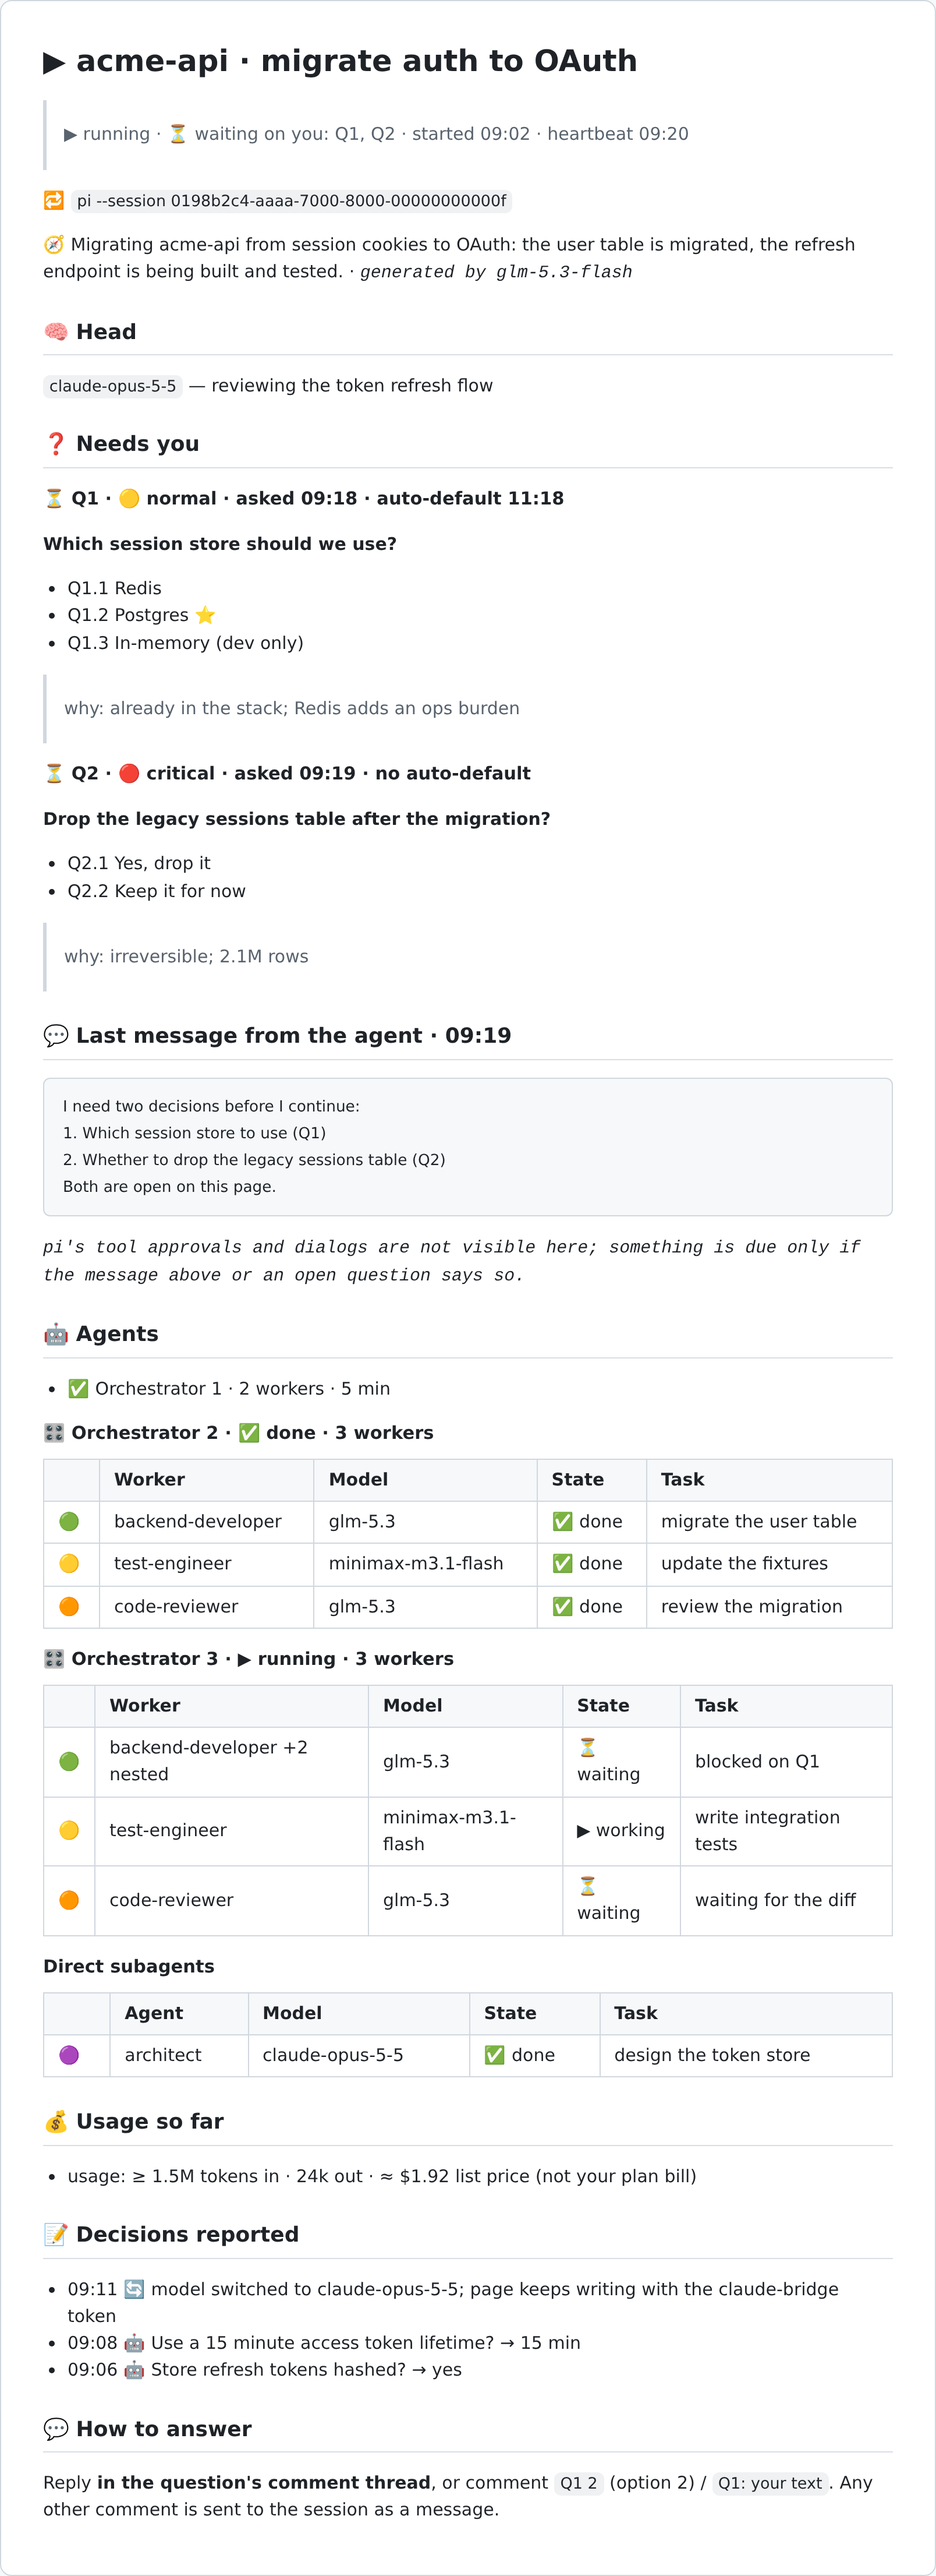
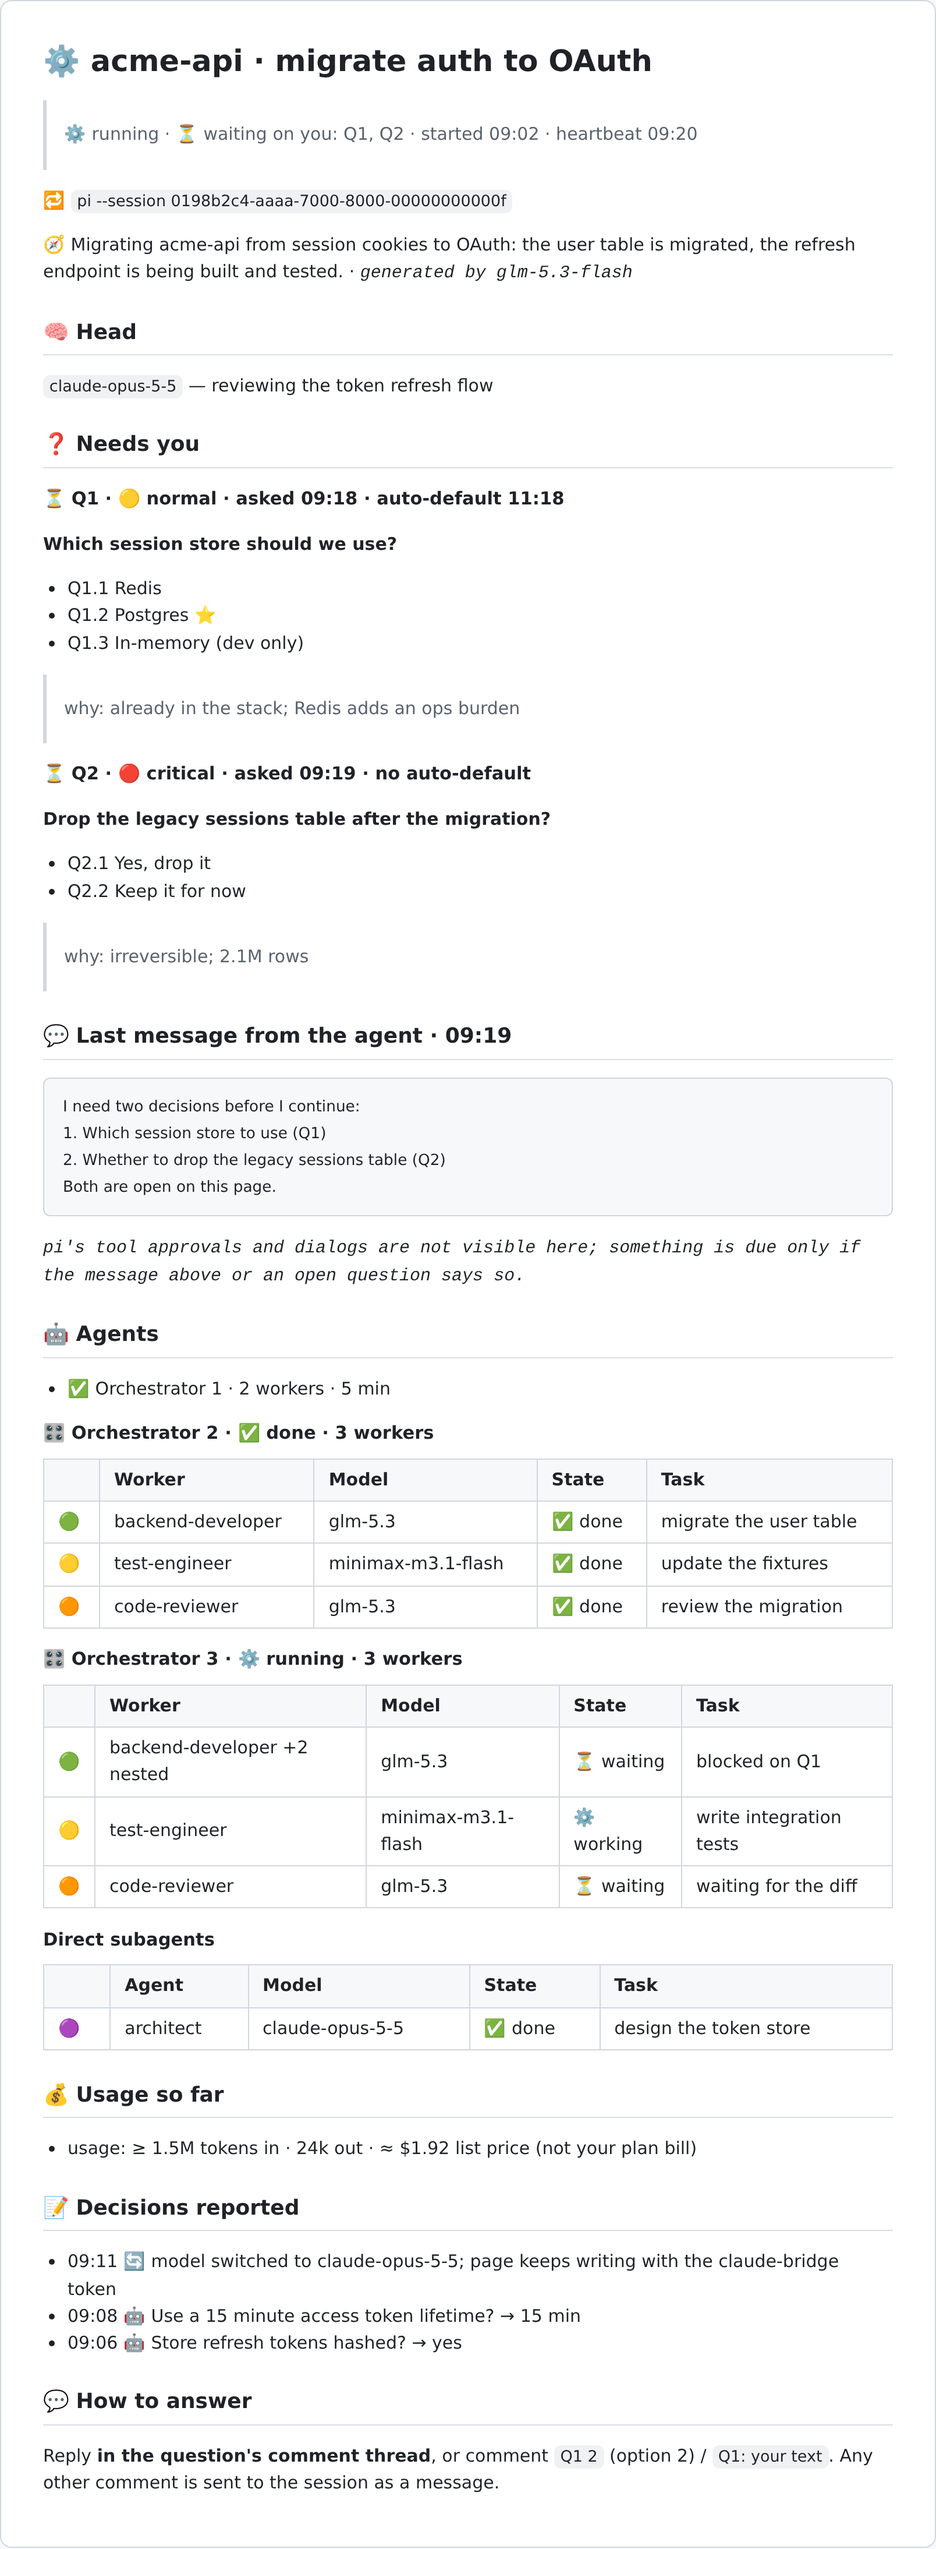
feat: mark a running session with a gear instead of a right-facing triangle

diff --git a/extensions/knot-headless/render.ts b/extensions/knot-headless/render.ts
@@ -26,7 +26,7 @@ export function defang(text: string): string {
 }
 
 const PALETTE = ["🟣", "🔵", "🟢", "🟡", "🟠", "🟤"]; // colored circles that render as emoji everywhere (⚫⚪ fall back to text glyphs)
-const GLYPH: Record<string, string> = { working: "▶", done: "✅", failed: "❌", waiting: "⏳", idle: "💤", paused: "⏸" };
+const GLYPH: Record<string, string> = { working: "⚙", done: "✅", failed: "❌", waiting: "⏳", idle: "💤", paused: "⏸" };
 const BY: Record<string, string> = { model: "🤖", user: "👤", timeout: "⏱", system: "🔄" };
 const MAX_AGENTS = 20;
 const MAX_DECISIONS_SHOWN = 8;
@@ -52,8 +52,8 @@ export function render(s: State, o: { now: number; tz?: string; secrets?: string
 	const hm = (ts: number) =>
 		new Intl.DateTimeFormat("en-GB", { hour: "2-digit", minute: "2-digit", hour12: false, timeZone: o.tz }).format(ts);
 	const waiting = s.questions.length ? `⏳ waiting on you: ${s.questions.map((q) => q.id).join(", ")}` : "";
-	const icon = s.phase === "ended" ? "✅" : s.phase === "running" ? "▶" : waiting ? "⏳" : "💤";
-	const label = s.phase === "running" ? `▶ running${waiting ? ` · ${waiting}` : ""}` : s.phase === "idle" ? waiting || "💤 idle — no open question; comment to give a new task" : "✅ ended";
+	const icon = s.phase === "ended" ? "✅" : s.phase === "running" ? "⚙" : waiting ? "⏳" : "💤";
+	const label = s.phase === "running" ? `⚙ running${waiting ? ` · ${waiting}` : ""}` : s.phase === "idle" ? waiting || "💤 idle — no open question; comment to give a new task" : "✅ ended";
 	const L: string[] = [];
 
 	L.push(`# ${icon} ${e(s.title, 100)}`, "");
@@ -137,7 +137,7 @@ function agentGroups(s: State, e: (t: string, max?: number) => string): string[]
 	}
 	if (L.length) L.push("");
 	for (const o of expOrchs) {
-		const label = o.state === "running" ? "▶ running" : o.state === "done" ? "✅ done" : "❌ failed";
+		const label = o.state === "running" ? "⚙ running" : o.state === "done" ? "✅ done" : "❌ failed";
 		L.push(...table(`### 🎛 Orchestrator ${o.n} · ${label} · ${workers(o)}`, "Worker", s.agents.filter((a) => a.orch === o.id)));
 		if (o.truncated) L.push("_+ more workers not shown_", "");
 	}

diff --git a/extensions/knot-headless/render.test.ts b/extensions/knot-headless/render.test.ts
@@ -139,7 +139,7 @@ test("one running orchestrator + one direct row", () => {
 		orchestrators: [orch("o1", 1, { state: "running", workers: 2, endedAt: undefined })],
 	};
 	const out = render(s, O);
-	assert.ok(out.includes("### 🎛 Orchestrator 1 · ▶ running · 2 workers"));
+	assert.ok(out.includes("### 🎛 Orchestrator 1 · ⚙ running · 2 workers"));
 	assert.ok(out.includes("| | Worker | Model | State | Task |"));
 	assert.ok(out.includes("### Direct subagents"));
 	assert.ok(out.includes("| | Agent | Model | State | Task |"));
@@ -154,7 +154,7 @@ test("collapse rule: running + highest-n done expanded, older collapsed", () => 
 		orchestrators: [orch("o1", 1, { workers: 3 }), orch("o2", 2, { workers: 2 }), orch("o3", 3, { state: "running", workers: 1, endedAt: undefined }), orch("o4", 4, { workers: 2 })],
 	};
 	const out = render(s, O);
-	assert.ok(out.includes("### 🎛 Orchestrator 3 · ▶ running"));
+	assert.ok(out.includes("### 🎛 Orchestrator 3 · ⚙ running"));
 	assert.ok(out.includes("### 🎛 Orchestrator 4 · ✅ done"));
 	assert.ok(out.includes("- ✅ Orchestrator 1 · 3 workers · 4 min"));
 	assert.ok(out.includes("- ✅ Orchestrator 2"));
@@ -255,7 +255,7 @@ test("expanded header says 1 worker (singular)", () => {
 		orchestrators: [orch("o1", 1, { state: "running", workers: 1, endedAt: undefined })],
 	};
 	const out = render(s, O);
-	assert.ok(out.includes("### 🎛 Orchestrator 1 · ▶ running · 1 worker"));
+	assert.ok(out.includes("### 🎛 Orchestrator 1 · ⚙ running · 1 worker"));
 });
 
 test("orchestrators: [] falls back to the flat table", () => {
@@ -330,7 +330,7 @@ test("banner states: waiting on questions, idle without one, running with one", 
 	const waiting = render({ ...s, phase: "idle" }, O);
 	assert.ok(waiting.includes("> ⏳ waiting on you: Q1"));
 	assert.ok(!waiting.includes("no open question as of"));
-	assert.ok(render({ ...s, phase: "running" }, O).includes("> ▶ running · ⏳ waiting on you: Q1"));
+	assert.ok(render({ ...s, phase: "running" }, O).includes("> ⚙ running · ⏳ waiting on you: Q1"));
 	assert.ok(render({ ...base(), phase: "ended" }, O).includes("session ended, nothing open"));
 });
 

diff --git a/extensions/knot-headless/extension.test.ts b/extensions/knot-headless/extension.test.ts
@@ -1282,7 +1282,7 @@ test("the last message is set at every assistant message, also while running; a 
 	await h.handle.tick(); // normal tick, not forced: the write gap has passed
 	assert.equal(h.knot.replaces.length - writes, 1, "the tick wrote exactly once");
 	const page = h.knot.replaces.at(-1)!;
-	assert.ok(page.includes("## 💬 Last message from the agent · 10:00") && page.includes("step 5") && page.includes("▶ running"));
+	assert.ok(page.includes("## 💬 Last message from the agent · 10:00") && page.includes("step 5") && page.includes("⚙ running"));
 });
 
 test("the first assistant message creates the page; inactive modes make no Knot call", async () => {

diff --git a/docs/design.md b/docs/design.md
@@ -64,8 +64,8 @@ Inert (no tools, no timers, no network) if `process.env.PI_SUBAGENT_CHILD === "1
 
 ### Page (write-only dashboard; no moving parts)
 Header (state, title, "started HH:MM", last heartbeat) → 🧠 head line (model, current activity) → **Needs you** (open questions with ids `Q1…` and numbered options `Q1.1 …`; empty = "no open question as of <heartbeat>" with a staleness note; chat-only questions are mirrored as Q items; **Last message from the agent · HH:MM** (newest assistant text, set at every `message_end`, redacted and elided to head 600 + tail 800, rendered as a fenced code block, shown in every phase, replaced not appended; a `🔁 pi --session <id>` line under the banner; spec `docs/superpowers/specs/2026-11-22-quiet-comments-last-message-design.md`)) → agents table → **Decisions reported** (last 8 + "N older") → footer (how to answer).
-- Identity dot per agent name, stable palette 🟣🔵🟢🟡🟠🟤 (hash of name); head 🧠. Status glyph separate, never a colored dot: ▶ working ✅ done ❌ failed ⏳ waiting for you 💤 idle ⏸ paused.
-- **Page states:** ▶ running, 💤 idle ("comment to give a new task"; polling continues), ✅ ended (only on `session_shutdown` with `reason` ≠ `reload`). Ended page: outcome line, duration, models used, subagent table (final), decisions, cost via RPC `cost` (once). Note "N background runs still running; results not delivered" if detached runs remain.
+- Identity dot per agent name, stable palette 🟣🔵🟢🟡🟠🟤 (hash of name); head 🧠. Status glyph separate, never a colored dot: ⚙ working ✅ done ❌ failed ⏳ waiting for you 💤 idle ⏸ paused.
+- **Page states:** ⚙ running, 💤 idle ("comment to give a new task"; polling continues), ✅ ended (only on `session_shutdown` with `reason` ≠ `reload`). Ended page: outcome line, duration, models used, subagent table (final), decisions, cost via RPC `cost` (once). Note "N background runs still running; results not delivered" if detached runs remain.
 - Writes: skip if markdown byte-identical to the last write; ≥15–30 s apart (trailing debounce); heartbeat line refreshed every 5 min; always `?mode=replace`.
 - **Escaping:** all dynamic text is escaped (single-line, except the *Last message from the agent* blockquote, which is escaped line by line by `escLines`, redacted before it is capped) (`[ ] | # > * \`` backticks, links); cells truncated (~80 chars). Only allow-listed fields are rendered: agent name, model, state, bounded label/goal, model-authored question/options/why, session name, and the newest assistant message (redacted, elided to ~1.4k chars). Never tool arguments/outputs.
 - **Redaction** on page, title and comments: exact values (≥8 chars) of the env vars in the AGENTS.md secret list; patterns `knot_…`, `Bearer \S+`, `sk-…`, `ghp_…`, `-----BEGIN`.

diff --git a/CHANGELOG.md b/CHANGELOG.md
@@ -2,6 +2,8 @@
 
 ## [Unreleased]
 
+- **A gear (⚙) marks a running session** instead of ▶: in the page title, the header line, a working subagent and a running orchestrator. The same symbol everywhere; ▶ is a text glyph that some fonts draw plain and tiny.
+
 - Screenshots in the README show the current page design (header state, session id line, last message code block, usage, summary).
 
 - **The pi session id is on the page.** A line under the header shows `pi --session <id>` so the session behind a Knot page can always be reopened (run it from any directory).
